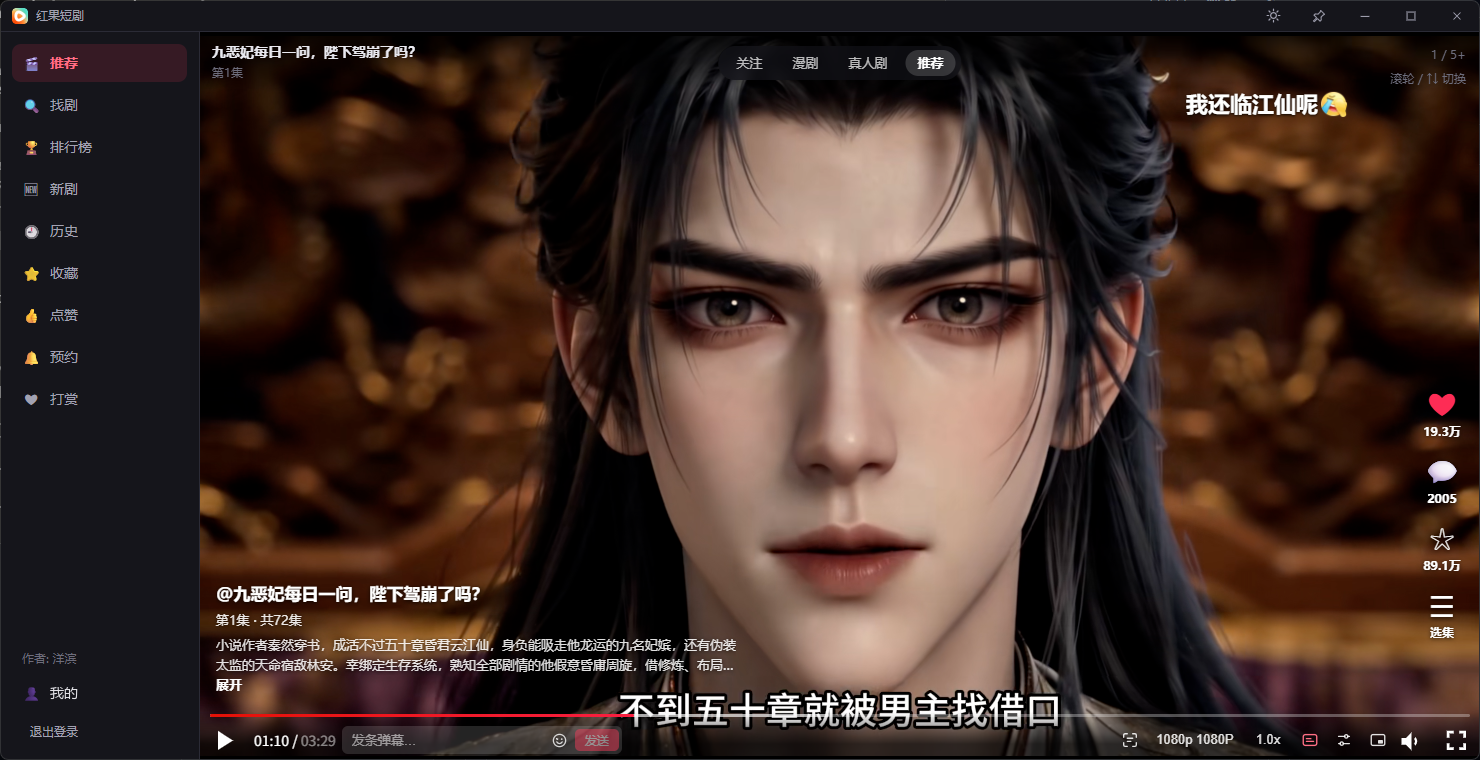
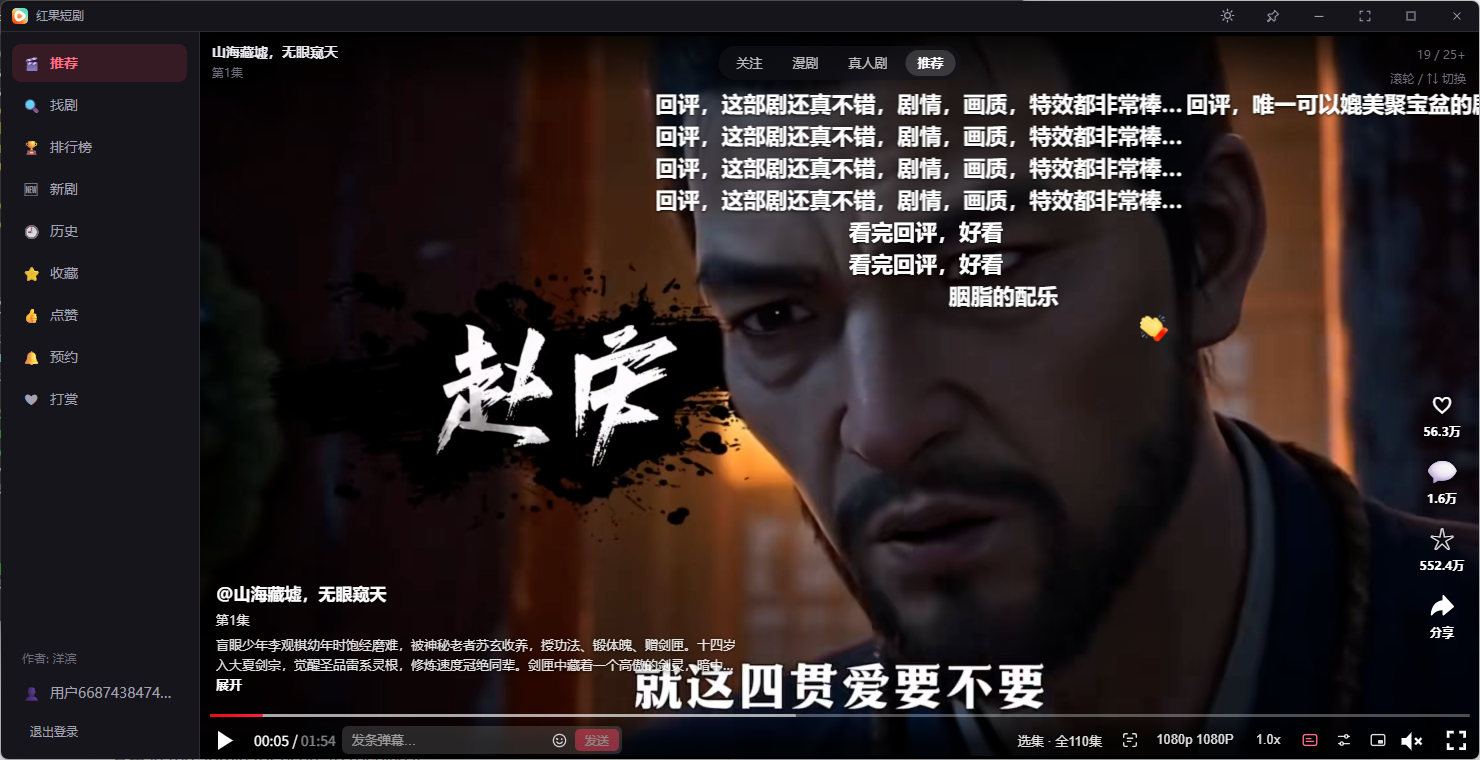
更新推荐页截图; 补充选集、分享、软件解码说明

diff --git a/README.md b/README.md
@@ -23,7 +23,7 @@
 1. 解压 zip, 双击 `红果短剧.exe`.
    (以后有新版本时程序会提示, 点 "立即重启更新" 即可自动更新.)
 2. 首次运行如果系统缺少 **WebView2 运行时** 或 **HEVC 视频扩展**, 程序会自动安装 (WebView2 需要联网).
-3. 请在本机直接运行; 远程桌面 / 虚拟机 / Windows 服务器通常没有显卡硬件解码, 视频可能只有声音没有画面.
+3. 系统无法硬件解码 H.265 (精简版系统 / 旧显卡 / 远程桌面等) 时, 程序会自动改用软件解码, 不会只有声音没有画面.
 
 **macOS**
 
@@ -37,13 +37,15 @@
 ## 主要功能
 
 - 刷剧: 推荐 / 分类沉浸式刷剧, 边刷边预加载, 滚轮或方向键切换
-- 追剧: 选集、自动连播下一集与下一季、续播进度
+- 追剧: 底部选集 (1-30 / 31-60 分段跳转)、自动连播下一集与下一季、续播进度
+- 分享: 一键复制分享链接 (手机红果 App 可直接打开); 复制别人的红果分享链接后自动识别, 确认即可播放
 - 找剧与排行榜: 多维度筛选, 各榜单与热度值
 - 新剧推荐、上新日历与预约
 - 弹幕 (点赞 / 回复 / +1)、评论与剧评 (多级回复、官方表情)
 - 收藏、点赞、观看历史 (未登录时保存在本地, 登录后可上传)
 - 小窗模式与隐身模式、浅色 / 深色主题
-- 窗口全屏 (Windows 标题栏右上角或 F11, 盖住任务栏)
+- 窗口全屏 (Windows 标题栏右上角或 F11, 盖住任务栏); macOS 使用系统红绿灯与菜单栏
+- 软件解码兜底: 硬件解码不可用时自动启用, 也可在弹幕设置里手动勾选
 
 ## 界面预览
 
@@ -65,10 +67,12 @@
 
 **只有声音, 没有画面?**
 
+新版本 (1.1.5 起) 在硬件解码不可用时会自动改用软件解码, 一般不会再出现; 旧版本请先更新. 仍有问题可按下面排查:
+
 1. 点播放器提示条上的 **"重启程序"**. HEVC 视频扩展刚装上或被微软商店更新后, 要重启程序才能生效.
 2. 仍不行就**重启电脑**再试.
 3. 扩展自动安装失败时, 程序会把安装包 `HEVC视频扩展-双击安装.appx` 放到程序目录, 双击手动安装.
-4. 远程桌面 / 虚拟机通常没有显卡硬件解码, 请在本机运行.
+4. 远程桌面 / 虚拟机通常没有显卡硬件解码, 会使用软件解码 (CPU 占用较高); 画面花屏 / 黑屏时可在弹幕设置里勾选 "软件解码".
 
 还解决不了可以提 [Issue](../../issues) 或加 QQ 联系作者.
 
